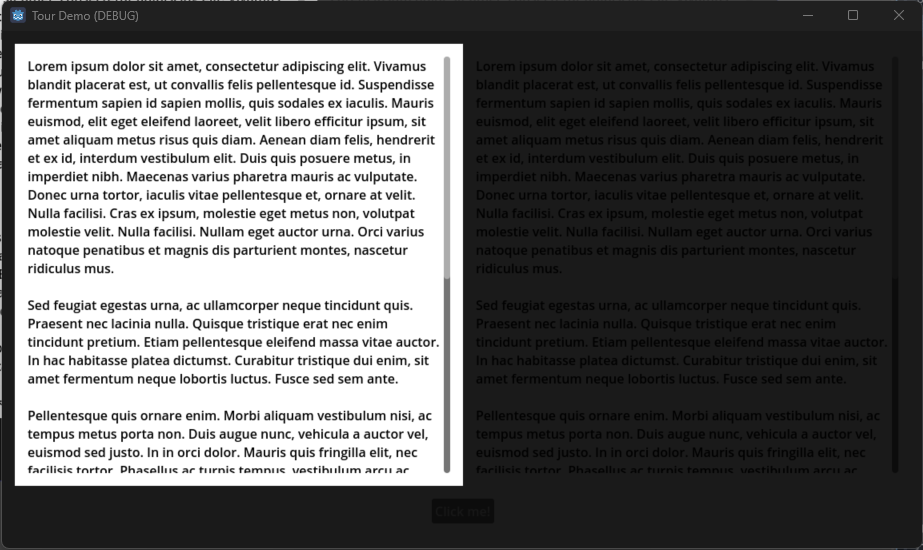
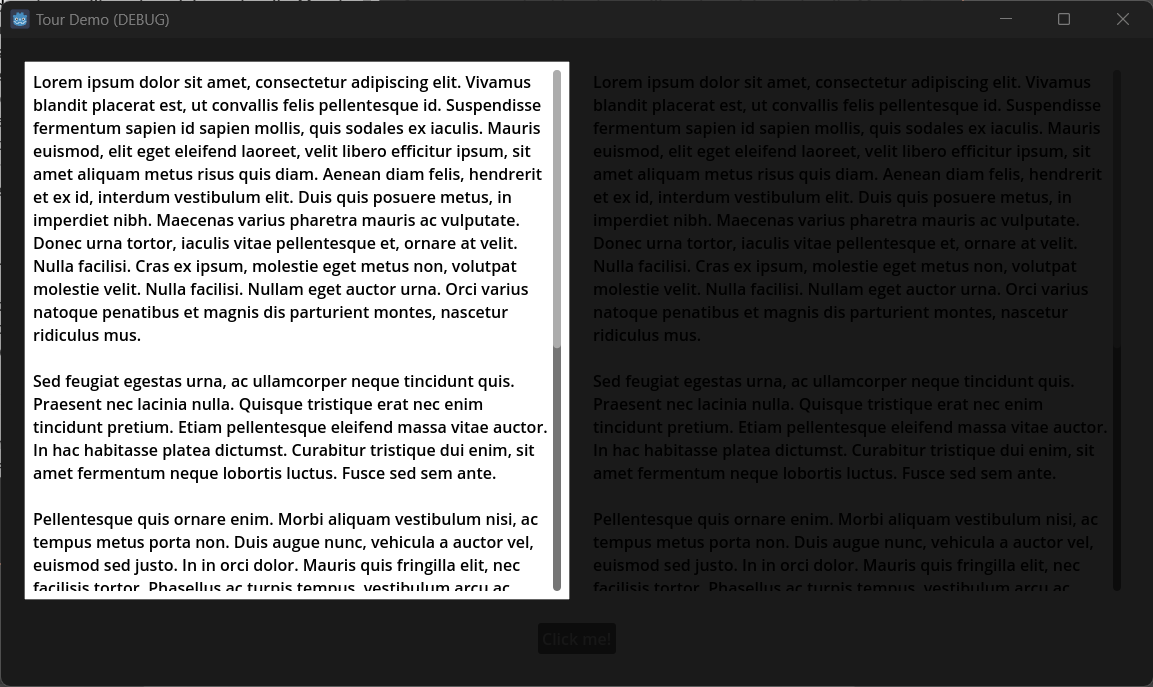
Multiple focused nodes. (#2)
* Shader for multiple rects

* Multiple rects showing up + updating overlays.

* Update styleboxes.

* Shader individual corner radius.

* Overlay stylebox controls padding and corner radius.

* Confine mouse input with multiple rects.

* Prevent popup container from having a minimum size.

* Update readme images.

Changed region(s): [[0.0, 0.0, 0.5157, 0.8964], [0.0, 0.9891, 1.0, 1.0]]

diff --git a/rust/src/classes/theater_rect.rs b/rust/src/classes/theater_rect.rs
@@ -1,35 +1,22 @@
 use godot::prelude::*;
 use godot::builtin::Corner;
-use godot::classes::{control, notify, Control, IControl, Panel, Engine, Shader, ShaderMaterial, StyleBoxFlat};
+use godot::classes::{control, notify, Control, Engine, IControl, Panel, Shader, ShaderMaterial, StyleBoxFlat, StyleBoxTexture};
+
+use super::focused_node::FocusedNode;
 
 #[derive(GodotClass)]
 #[class(base = Control, tool)]
 struct TheaterRect {
     base: Base<Control>,
-    // Node to focus on.
+    /// Nodes to focus on.
     #[export]
-    focused_node: Option<Gd<Control>>,
-    // Overlay node for borders and other styles/effects.
-    #[export]
-    #[var(get = get_overlay, set = set_overlay)]
-    overlay: Option<Gd<Panel>>,
+    focused_nodes: Array<Option<Gd<FocusedNode>>>,
     // Background color of unfocused area.
     #[export]
-    #[var(get = get_background_color, set = set_background_color)]
     background_color: Color,
-    // Padding between unfocused and focused area.
-    #[var(get = get_padding, set = set_padding)]
-    #[export(range=(0.0, 64.0, 1.0, or_greater, suffix="px"))]
-    padding: i32,
-    // Corner radius of focused area.
-    #[var(get = get_corner_radius, set = set_corner_radius)]
-    #[export(range=(0.0, 64.0, 1.0, or_greater, suffix="px"))]
-    corner_radius: i32,
     // Prevent mouse input outside of focused area.
     #[export]
     confine_input: bool,
-    // Cached rect of focused node.
-    current_rect: Rect2,
     // Cached material.
     cutout_material: Gd<ShaderMaterial>,
 }
@@ -44,13 +31,9 @@ impl IControl for TheaterRect {
         // Set default values.
         Self {
             base,
-            focused_node: None,
-            overlay: None,
+            focused_nodes: Array::new(),
             background_color: Color::from_rgba(0.0, 0.0, 0.0, 0.9),
-            padding: 16,
-            corner_radius: 16,
             confine_input: true,
-            current_rect: Rect2::default(),
             cutout_material: material,
         }
     }
@@ -61,21 +44,12 @@ impl IControl for TheaterRect {
     }
 
     fn process(&mut self, _delta: f64) {
-        // Check if focused node rect has changed.
-        if let Some(focused_node) = self.focused_node.clone() {
-            let global_rect = focused_node.get_global_rect();
-            if self.current_rect != global_rect {
-                self.current_rect = global_rect;
-                self.update();
-            }
-        }
-
-        let engine = Engine::singleton();
+        self.update();
 
         // Confine input to the focused control rect.
-        if !engine.is_editor_hint() && self.confine_input && self.base().is_visible() {
+        if self.confine_input && !Engine::singleton().is_editor_hint() && self.base().is_visible() {
             if let Some(viewport) = self.base().get_viewport() {
-                if self.current_rect.has_point(viewport.get_mouse_position()) {
+                if self.has_point(viewport.get_mouse_position()) {
                     self.base_mut().set_mouse_filter(control::MouseFilter::IGNORE);
                 } else {
                     self.base_mut().set_mouse_filter(control::MouseFilter::STOP);
@@ -96,16 +70,12 @@ impl IControl for TheaterRect {
             notify::ControlNotification::EDITOR_PRE_SAVE => {
                 // Remove material.
                 self.base_mut().set_material(None as Option<Gd<ShaderMaterial>>);
-                // Reset overlay position and size.
-                if let Some(mut overlay) = self.overlay.clone() {
-                    overlay.set_position(Vector2::default());
-                    overlay.set_size(Vector2::default());
-                }
+                // Reset overlays position & size.
+                self.reset_overlays();
             },
             notify::ControlNotification::EDITOR_POST_SAVE => {
                 let material_clone = self.cutout_material.clone();
                 self.base_mut().set_material(material_clone);
-                self.update();
             },
             _ => {}
         }
@@ -116,102 +86,106 @@ impl IControl for TheaterRect {
 impl TheaterRect {
     const DEFAULT_COLOR: Color = Color::from_rgba(1.0, 0.0, 0.0, 0.75);
 
-    // region: Getters/Setters
-
-    // region: Overlay
-
-    #[func]
-    fn get_overlay(&self) -> Option<Gd<Panel>> {
-        self.overlay.clone()
-    }
-
-    #[func]
-    fn set_overlay(&mut self, overlay: Option<Gd<Panel>>) {
-        self.overlay = overlay;
-        self.update();
-    }
-
-    // endregion
-
-    // region: Background Color
-
-    #[func]
-    fn get_background_color(&self) -> Color {
-        self.background_color
-    }
-
-    #[func]
-    fn set_background_color(&mut self, background_color: Color) {
-        self.background_color = background_color;
-        self.update();
-    }
-
-    // endregion
-
-    // region: Padding
-
-    #[func]
-    fn get_padding(&self) -> i32 {
-        self.padding
-    }
-
-    #[func]
-    fn set_padding(&mut self, padding: i32) {
-        self.padding = padding;
-        self.update();
-    }
-
-    // endregion
-
-    // region: Corner Radius
-
-    #[func]
-    fn get_corner_radius(&self) -> i32 {
-        self.corner_radius
-    }
-
-    #[func]
-    fn set_corner_radius(&mut self, corner_radius: i32) {
-        self.corner_radius = corner_radius;
-        self.update();
-    }
-
-    // endregion
-
-    // endregion
-
     fn update(&mut self) {
-        let padded_rect = self.current_rect.grow(self.padding as f32);
-        self.update_shader_params(padded_rect);
-        self.update_overlay(padded_rect);
-        self.update_stylebox()
+        self.update_shader_params();
+        self.update_overlays();
     }
 
-    fn update_shader_params(&mut self, rect: Rect2) {
-        self.cutout_material.set_shader_parameter("rect_size".into(), rect.size.to_variant());
-        self.cutout_material.set_shader_parameter("rect_position".into(), rect.position.to_variant());
-        self.cutout_material.set_shader_parameter("corner_radius".into(), self.corner_radius.to_variant());
+    fn update_shader_params(&mut self) {
+        let rects = self.get_rects();
+        let corners = self.get_corners();
+        self.cutout_material.set_shader_parameter("rects".into(), rects.to_variant());
+        self.cutout_material.set_shader_parameter("corners".into(), corners.to_variant());
         self.cutout_material.set_shader_parameter("background_color".into(), self.background_color.to_variant());
     }
 
-    fn update_overlay(&mut self, rect: Rect2) {
-        if let Some(mut overlay) = self.overlay.clone() {
-            let rect = rect.grow(1.0);
-            overlay.set_position(rect.position);
-            overlay.set_size(rect.size);
-        }
+    fn update_overlays(&self) {
+        self.focused_nodes.iter_shared().for_each(|focused_node_result| {
+            if let Some(focused_node) = focused_node_result {
+                let target_nodepath = focused_node.bind().target.clone();
+                if let Some(target) = self.base().try_get_node_as::<Control>(target_nodepath) {
+                    let overlay_nodepath = focused_node.bind().overlay.clone();
+                    if let Some(mut overlay) = self.base().try_get_node_as::<Panel>(overlay_nodepath) {
+                        let rect = target.get_global_rect().grow(1.0);
+                        overlay.set_position(rect.position);
+                        overlay.set_size(rect.size);
+                    }
+                }
+            }
+        });
     }
 
-    fn update_stylebox(&mut self) {
-        if let Some(overlay) = self.overlay.clone() {
-            if let Some(stylebox) = overlay.get_theme_stylebox("panel".into()) {
-                if let Ok(mut flat_stylebox) = stylebox.try_cast::<StyleBoxFlat>() {
-                    flat_stylebox.set_corner_radius(Corner::BOTTOM_LEFT, self.corner_radius);
-                    flat_stylebox.set_corner_radius(Corner::BOTTOM_RIGHT, self.corner_radius);
-                    flat_stylebox.set_corner_radius(Corner::TOP_LEFT, self.corner_radius);
-                    flat_stylebox.set_corner_radius(Corner::TOP_RIGHT, self.corner_radius);
+    fn reset_overlays(&self) {
+        self.focused_nodes.iter_shared().for_each(|focused_node_result| {
+            if let Some(focused_node) = focused_node_result {
+                let overlay_nodepath = focused_node.bind().overlay.clone();
+                if let Some(mut overlay) = self.base().try_get_node_as::<Panel>(overlay_nodepath) {
+                    overlay.set_position(Vector2::default());
+                    overlay.set_size(Vector2::default());
+                }
+            }
+        });
+    }
+
+    fn get_rects(&self) -> Array<Rect2> {
+        self.focused_nodes.iter_shared().map(|focused_node_result|{
+            if let Some(focused_node) = focused_node_result {
+                if let Some(target) = self.base().try_get_node_as::<Control>(focused_node.bind().target.clone()) {
+                    let target_rect = target.get_global_rect();
+                    let overlay_nodepath = focused_node.bind().overlay.clone();
+                    if let Some(overlay) = self.base().try_get_node_as::<Panel>(overlay_nodepath) {
+                        if let Some(stylebox) = overlay.get_theme_stylebox("panel".into()) {
+                            if let Ok(flat_stylebox) = stylebox.clone().try_cast::<StyleBoxFlat>() {
+                                return target_rect.grow_individual(
+                                    flat_stylebox.get_expand_margin(Side::LEFT),
+                                    flat_stylebox.get_expand_margin(Side::TOP),
+                                    flat_stylebox.get_expand_margin(Side::RIGHT),
+                                    flat_stylebox.get_expand_margin(Side::BOTTOM),
+                                );
+                            } else if let Ok(texture_stylebox) = stylebox.try_cast::<StyleBoxTexture>() {
+                                return target_rect.grow_individual(
+                                    texture_stylebox.get_expand_margin(Side::LEFT),
+                                    texture_stylebox.get_expand_margin(Side::TOP),
+                                    texture_stylebox.get_expand_margin(Side::RIGHT),
+                                    texture_stylebox.get_expand_margin(Side::BOTTOM),
+                                );
+                            }
+                        }
+                    }
+                    return target_rect;
+                }
+            }
+            Rect2::default()
+        }).collect()
+    }
+
+    fn get_corners(&self) -> Array<f32> {
+        self.focused_nodes.iter_shared().map(|focused_node_result|{
+            if let Some(focused_node) = focused_node_result {
+                let overlay_nodepath = focused_node.bind().overlay.clone();
+                if let Some(overlay) = self.base().try_get_node_as::<Panel>(overlay_nodepath) {
+                    if let Some(stylebox) = overlay.get_theme_stylebox("panel".into()) {
+                        if let Ok(stylebox_flat) = stylebox.try_cast::<StyleBoxFlat>() {
+                            return stylebox_flat.get_corner_radius(Corner::TOP_LEFT) as f32;
+                        }
+                    }
+                }
+            }
+            0.0
+        }).collect()
+    }
+
+    fn has_point(&self, point: Vector2) -> bool {
+        for focused_node_result in self.focused_nodes.iter_shared() {
+            if let Some(focused_node) = focused_node_result {
+                if let Some(target) = self.base().try_get_node_as::<Control>(focused_node.bind().target.clone()) {
+                    let target_rect = target.get_global_rect();
+                    if target_rect.has_point(point) {
+                        return true;
+                    } 
                 }
             }
         }
+        return false;
     }
 }

diff --git a/rust/src/classes/focused_node.rs b/rust/src/classes/focused_node.rs
@@ -1,0 +1,32 @@
+use godot::prelude::*;
+use godot::builtin::NodePath;
+use godot::classes::{Resource, IResource};
+
+#[derive(GodotClass)]
+#[class(tool, base=Resource)]
+pub struct FocusedNode {
+    base: Base<Resource>,
+    /// Node to focus on.
+    #[export]
+    #[var(hint = NODE_TYPE, hint_string = "Control")]
+    pub target: NodePath,
+    /// Overlay node for borders and other styles/effects.
+    #[export]
+    #[var(hint = NODE_TYPE, hint_string = "Panel")]
+    pub overlay: NodePath,
+}
+
+#[godot_api]
+impl IResource for FocusedNode {
+    fn init(base: Base<Resource>) -> Self {
+        // Set default values.
+        Self {
+            base,
+            target: NodePath::default(),
+            overlay: NodePath::default(),
+        }
+    }
+}
+
+#[godot_api]
+impl FocusedNode {}

diff --git a/rust/src/classes/popup_container.rs b/rust/src/classes/popup_container.rs
@@ -75,6 +75,7 @@ impl IContainer for PopupContainer {
         match what {
             notify::ContainerNotification::EDITOR_PRE_SAVE => {
                 self.reset();
+                self.base_mut().set_custom_minimum_size(Vector2::default());
             },
             notify::ContainerNotification::EDITOR_POST_SAVE => {
                 self.update();
@@ -104,6 +105,7 @@ impl PopupContainer {
     }
 
     fn update(&mut self) {
+        self.base_mut().set_custom_minimum_size(Vector2::default());
         self.update_position();
         let child_restult = self.get_child();
         if let Some(child) = child_restult {

diff --git a/rust/src/classes.rs b/rust/src/classes.rs
@@ -1,2 +1,3 @@
 pub mod theater_rect;
 pub mod popup_container;
+pub mod focused_node;

diff --git a/README.md b/README.md
@@ -6,13 +6,13 @@ Provides functionality to implement things like UI tours.
 
 ## Available Nodes
 ### `TheaterRect`
-Focus the users attention on a particular `Control`.<br>
+Focus the users attention on any number of `Control`'s.<br>
 #### Features
 - Toggle the ability to prevent mouse input outside of the focused region.
 <table>
   <tr>
     <td><img src="docs/images/TheaterRect.png"></td>
-    <td><img src="docs/images/TheaterRect-Outlined.png"></td>
+    <td><img src="docs/images/TheaterRect2.png"></td>
   </tr>
 </table>
 
